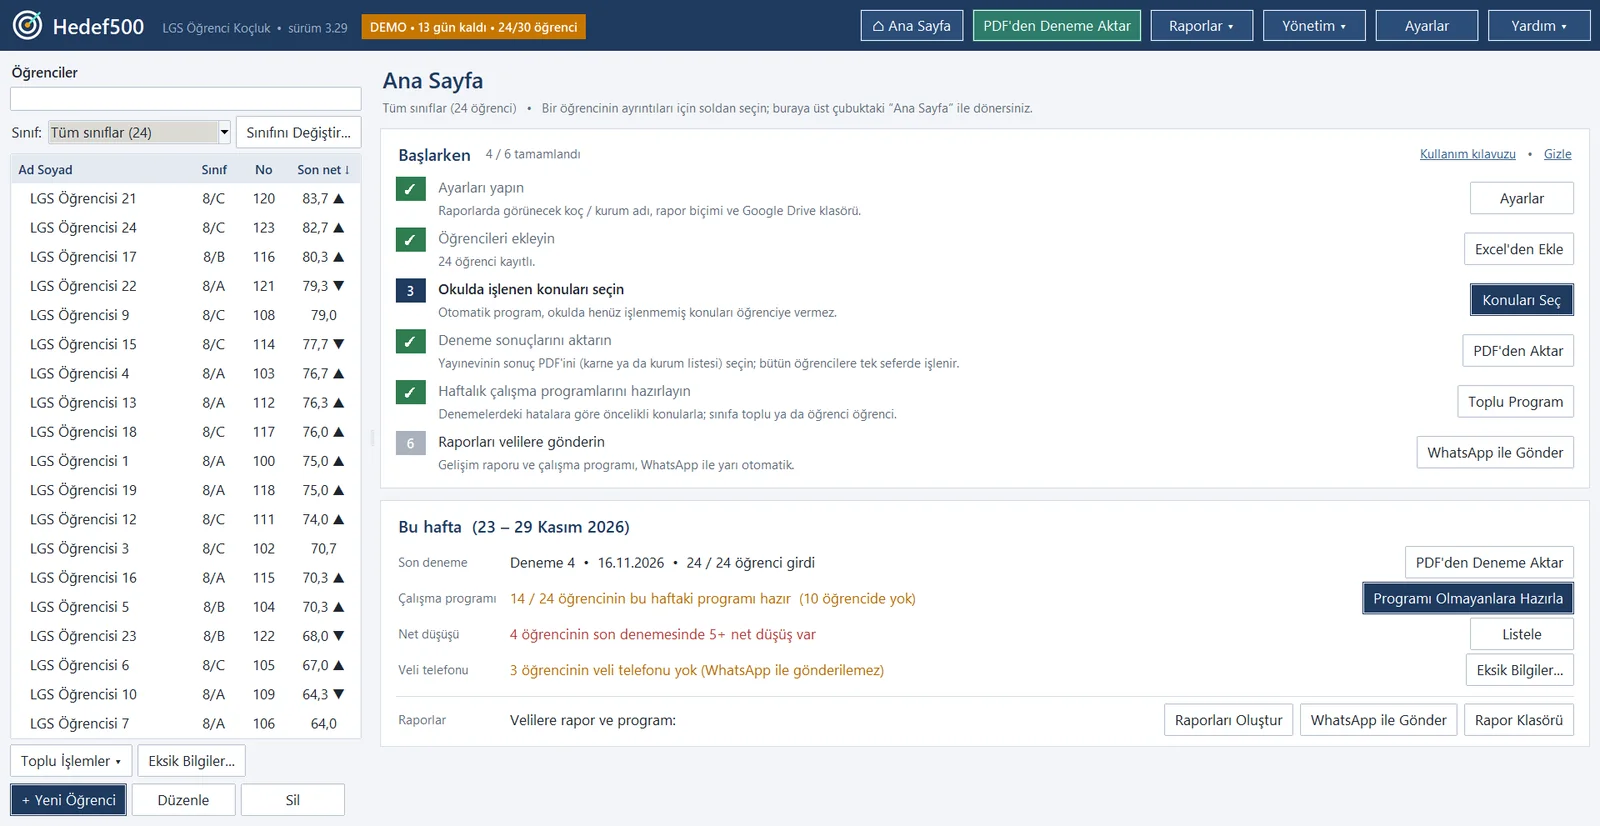
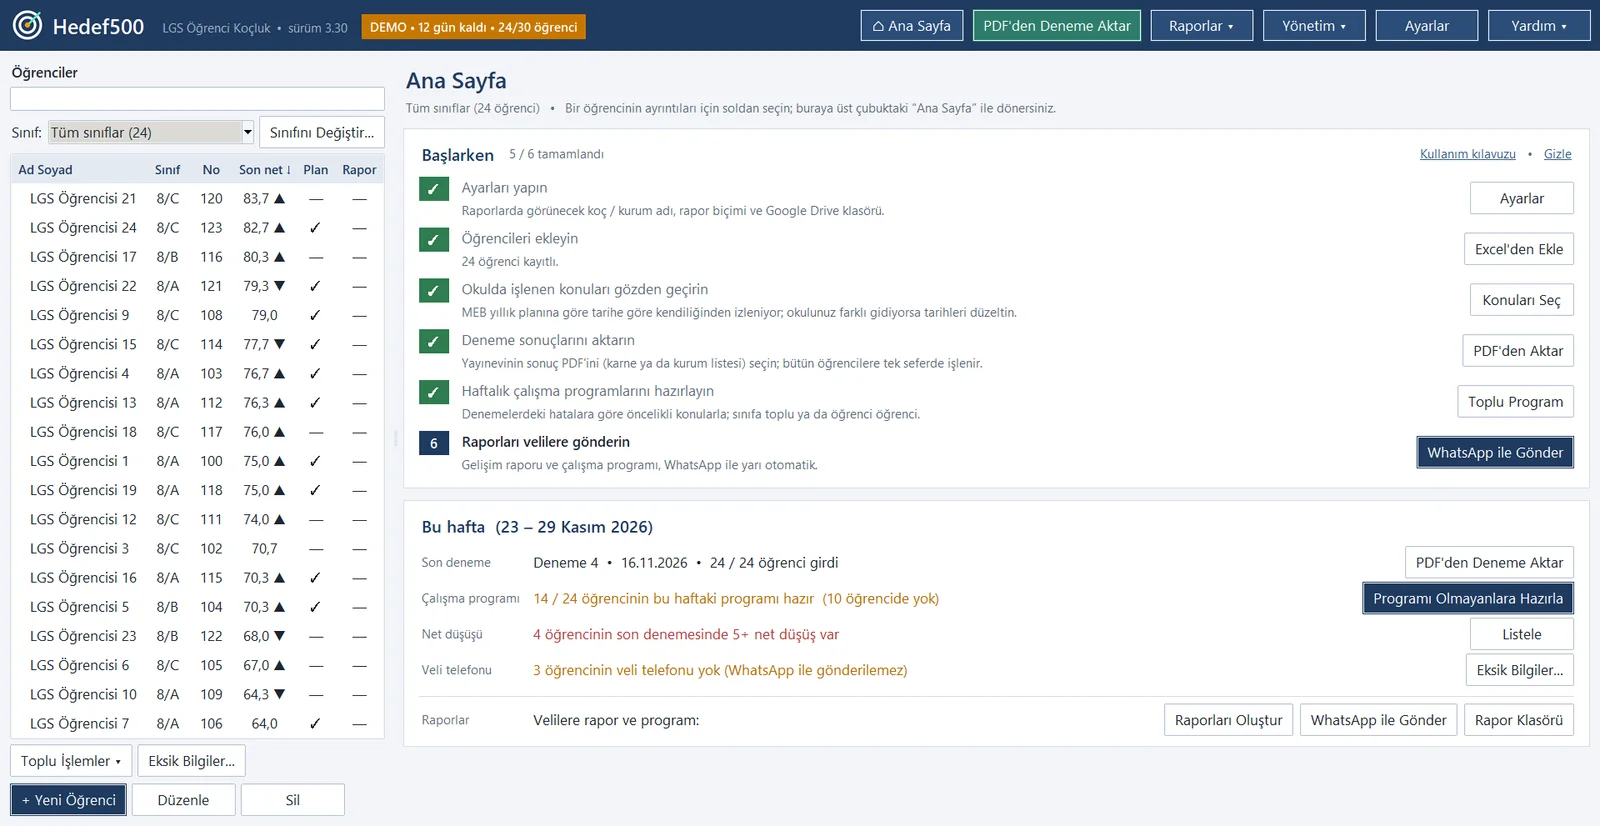
3.30: görseller ve işlenen konular metni

diff --git a/index.html b/index.html
@@ -300,7 +300,7 @@
           <span class="adim-no" aria-hidden="true">2</span>
           <h3>Eksikleri görün</h3>
           <p>Her öğrencinin hangi konuda, kaç denemede hata yaptığı listelenir; konu durumları kendiliğinden güncellenir. Öğrenci listesinde son net ve bir önceki denemeye göre ▲ ▼ değişim görünür; 5 ya da daha çok net düşen öğrenci kırmızı yazılır.</p>
-          <p class="adim-ayrinti">Okulda henüz işlenmemiş konular önceliklere girmez.</p>
+          <p class="adim-ayrinti">Okulda henüz işlenmemiş konular önceliklere girmez; işlenen konular MEB yıllık planına göre kendiliğinden izlenir.</p>
         </div>
         <figure class="kagit adim-gorsel"><img src="gorseller/net_listesi.webp" width="1100" height="765" loading="lazy" alt="Sınıf net listesi PDF'i: öğrencilerin son net, önceki net, net değişimi ve puan değişimi"></figure>
       </li>
